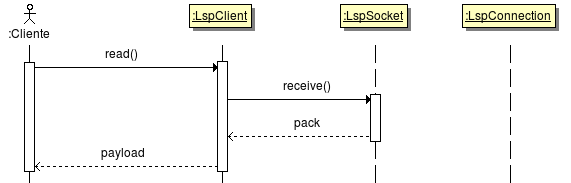
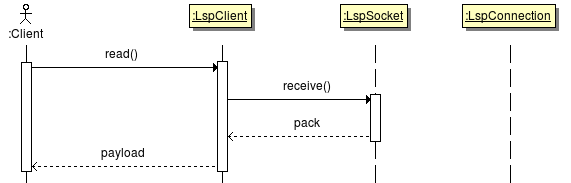
Correção nos diag. sequência

Changed region(s): [[0.0298, 0.2459, 0.387, 1.0], [0.0298, 0.0273, 0.0595, 0.1366], [0.0595, 0.1639, 0.0893, 0.2186]]

diff --git a/uml/index_76.html b/uml/index_76.html
@@ -20,9 +20,8 @@
 <tr bgcolor=#f0f0f0><td><a href="index.html#refattribute129282" target = "projectFrame"><b>LEN_HEADER</b></a></td><td>attribute</td><td></td></tr>
 <tr bgcolor=#f0f0f0><td><a href="index.html#refattribute129154" target = "projectFrame"><b>LEN_PACKAGE</b></a></td><td>attribute</td><td></td></tr>
 <tr bgcolor=#f0f0f0><td><a href="index.html#refattribute129410" target = "projectFrame"><b>LEN_PAYLOAD</b></a></td><td>attribute</td><td></td></tr>
+<tr bgcolor=#f0f0f0><td><a href="index.html#refclass view128002" target = "projectFrame"><b>Live Sequence Protocol</b></a></td><td>class view</td><td></td></tr>
 <tr bgcolor=#f0f0f0><td><a href="index.html#refattribute131714" target = "projectFrame"><b>lock</b></a></td><td>attribute</td><td></td></tr>
-<tr bgcolor=#f0f0f0><td><a href="index.html#refclass view128002" target = "projectFrame"><b>lsp</b></a></td><td>class view</td><td></td></tr>
-<tr bgcolor=#f0f0f0><td><a href="index.html#refuse case view134530" target = "projectFrame"><b>LSP</b></a></td><td>use case view</td><td></td></tr>
 <tr bgcolor=#f0f0f0><td><a href="index.html#refpackage128002" target = "projectFrame"><b>lsp</b></a></td><td>package</td><td></td></tr>
 <tr bgcolor=#f0f0f0><td><a href="class129026.html#refclass129026" target = "projectFrame"><b>LspClient</b></a></td><td>class</td><td></td></tr>
 <tr bgcolor=#f0f0f0><td><a href="index.html#refoperation129794" target = "projectFrame"><b>LspClient</b></a></td><td>operation</td><td></td></tr>
@@ -38,12 +37,12 @@
 <tr bgcolor=#f0f0f0><td><a href="class128514.html#refclass128514" target = "projectFrame"><b>LspSocket</b></a></td><td>class</td><td>Serviço de entrada e saída de pacotes. Classe abstrata.<br /><br />@author Wagner Macedo</td></tr>
 <tr bgcolor=#f0f0f0><td><a href="index.html#refrelation128386" target = "projectFrame"><b>lspSocket</b></a></td><td>relation</td><td></td></tr>
 <tr bgcolor=#f0f0f0><td><a href="index.html#refrelation130690" target = "projectFrame"><b>lspSocket</b></a></td><td>relation</td><td> Socket LSP <br /></td></tr>
-<tr bgcolor=#f0f0f0><td><a href="index.html#refoperation130818" target = "projectFrame"><b>LspSocket</b></a></td><td>operation</td><td>Inicia um LspSocket<br /><br />@param port Porta onde o socket estará vinculado<br />@throws SocketException</td></tr>
 <tr bgcolor=#f0f0f0><td><a href="index.html#refoperation130690" target = "projectFrame"><b>LspSocket</b></a></td><td>operation</td><td>Inicia um LspSocket<br /><br />@param port Porta onde o socket estará vinculado<br />@param queueSize Tamanho inicial das filas de entrada e saída<br />@throws SocketException</td></tr>
+<tr bgcolor=#f0f0f0><td><a href="index.html#refoperation130818" target = "projectFrame"><b>LspSocket</b></a></td><td>operation</td><td>Inicia um LspSocket<br /><br />@param port Porta onde o socket estará vinculado<br />@throws SocketException</td></tr>
 <tr bgcolor=#f0f0f0><td><a href="class129282.html#refclass129282" target = "projectFrame"><b>LspSocketImpl</b></a></td><td>class</td><td></td></tr>
 <tr bgcolor=#f0f0f0><td><a href="class130434.html#refclass130434" target = "projectFrame"><b>LspSocketImpl</b></a></td><td>class</td><td></td></tr>
-<tr bgcolor=#f0f0f0><td><a href="index.html#refoperation134146" target = "projectFrame"><b>LspSocketImpl</b></a></td><td>operation</td><td></td></tr>
 <tr bgcolor=#f0f0f0><td><a href="index.html#refoperation138882" target = "projectFrame"><b>LspSocketImpl</b></a></td><td>operation</td><td></td></tr>
+<tr bgcolor=#f0f0f0><td><a href="index.html#refoperation134146" target = "projectFrame"><b>LspSocketImpl</b></a></td><td>operation</td><td></td></tr>
 </table>
 </body>
 </html>

diff --git a/uml/navig.html b/uml/navig.html
@@ -12,6 +12,6 @@
 <p><a href="index.html" target = "projectFrame"><b> -Top- </b></a><a href="classes.html" target = "projectFrame"><b> -Classes- </b></a><a href="public_operations.html" target = "projectFrame"><b> -Public Operations- </b></a><a href="public_properties.html" target = "projectFrame"><b> -Public properties- </b></a><a href="packages.html" target = "projectFrame"><b> -Packages- </b></a><a href="classdiagrams.html" target = "projectFrame"><b> -Class Diagrams- </b></a><a href="sequencediagrams.html" target = "projectFrame"><b> -Sequence Diagrams- </b></a></p>
 <p>
 </p>
-<p><a href="index_65.html" target = "projectFrame"><b> A </b></a><a href="index_66.html" target = "projectFrame"><b> B </b></a><a href="index_67.html" target = "projectFrame"><b> C </b></a><a href="index_68.html" target = "projectFrame"><b> D </b></a><a href="index_69.html" target = "projectFrame"><b> E </b></a><a href="index_71.html" target = "projectFrame"><b> G </b></a><a href="index_72.html" target = "projectFrame"><b> H </b></a><a href="index_73.html" target = "projectFrame"><b> I </b></a><a href="index_76.html" target = "projectFrame"><b> L </b></a><a href="index_77.html" target = "projectFrame"><b> M </b></a><a href="index_78.html" target = "projectFrame"><b> N </b></a><a href="index_79.html" target = "projectFrame"><b> O </b></a><a href="index_80.html" target = "projectFrame"><b> P </b></a><a href="index_81.html" target = "projectFrame"><b> Q </b></a><a href="index_82.html" target = "projectFrame"><b> R </b></a><a href="index_83.html" target = "projectFrame"><b> S </b></a><a href="index_84.html" target = "projectFrame"><b> T </b></a><a href="index_85.html" target = "projectFrame"><b> U </b></a><a href="index_87.html" target = "projectFrame"><b> W </b></a></p>
+<p><a href="index_65.html" target = "projectFrame"><b> A </b></a><a href="index_66.html" target = "projectFrame"><b> B </b></a><a href="index_67.html" target = "projectFrame"><b> C </b></a><a href="index_68.html" target = "projectFrame"><b> D </b></a><a href="index_69.html" target = "projectFrame"><b> E </b></a><a href="index_71.html" target = "projectFrame"><b> G </b></a><a href="index_72.html" target = "projectFrame"><b> H </b></a><a href="index_73.html" target = "projectFrame"><b> I </b></a><a href="index_74.html" target = "projectFrame"><b> J </b></a><a href="index_76.html" target = "projectFrame"><b> L </b></a><a href="index_77.html" target = "projectFrame"><b> M </b></a><a href="index_78.html" target = "projectFrame"><b> N </b></a><a href="index_79.html" target = "projectFrame"><b> O </b></a><a href="index_80.html" target = "projectFrame"><b> P </b></a><a href="index_81.html" target = "projectFrame"><b> Q </b></a><a href="index_82.html" target = "projectFrame"><b> R </b></a><a href="index_83.html" target = "projectFrame"><b> S </b></a><a href="index_84.html" target = "projectFrame"><b> T </b></a><a href="index_85.html" target = "projectFrame"><b> U </b></a><a href="index_87.html" target = "projectFrame"><b> W </b></a></p>
 </body>
 </html>

diff --git a/uml/index_67.html b/uml/index_67.html
@@ -21,15 +21,15 @@
 <tr bgcolor=#f0f0f0><td><a href="class129538.html#refclass129538" target = "projectFrame"><b>Callable</b></a></td><td>class</td><td></td></tr>
 <tr bgcolor=#f0f0f0><td><a href="index.html#refoperation130562" target = "projectFrame"><b>checkActive</b></a></td><td>operation</td><td></td></tr>
 <tr bgcolor=#f0f0f0><td><a href="index.html#refoperation138498" target = "projectFrame"><b>checkActive</b></a></td><td>operation</td><td></td></tr>
+<tr bgcolor=#f0f0f0><td><a href="class137090.html#refclass137090" target = "projectFrame"><b>Client</b></a></td><td>class</td><td></td></tr>
 <tr bgcolor=#f0f0f0><td><a href="index.html#refsequence diagram148098" target = "projectFrame"><b>Client closing</b></a></td><td>sequence diagram</td><td></td></tr>
 <tr bgcolor=#f0f0f0><td><a href="index.html#refsequence diagram141314" target = "projectFrame"><b>Client connecting</b></a></td><td>sequence diagram</td><td></td></tr>
 <tr bgcolor=#f0f0f0><td><a href="index.html#refsequence diagram147970" target = "projectFrame"><b>Client receiving</b></a></td><td>sequence diagram</td><td></td></tr>
 <tr bgcolor=#f0f0f0><td><a href="index.html#refsequence diagram147842" target = "projectFrame"><b>Client sending</b></a></td><td>sequence diagram</td><td></td></tr>
-<tr bgcolor=#f0f0f0><td><a href="class137090.html#refclass137090" target = "projectFrame"><b>Cliente</b></a></td><td>class</td><td></td></tr>
 <tr bgcolor=#f0f0f0><td><a href="class130050.html#refclass130050" target = "projectFrame"><b>ClientTriggers</b></a></td><td>class</td><td></td></tr>
 <tr bgcolor=#f0f0f0><td><a href="index.html#refoperation130306" target = "projectFrame"><b>close</b></a></td><td>operation</td><td>Encerra a conexão.</td></tr>
-<tr bgcolor=#f0f0f0><td><a href="index.html#refoperation136834" target = "projectFrame"><b>close</b></a></td><td>operation</td><td></td></tr>
 <tr bgcolor=#f0f0f0><td><a href="index.html#refoperation136962" target = "projectFrame"><b>close</b></a></td><td>operation</td><td></td></tr>
+<tr bgcolor=#f0f0f0><td><a href="index.html#refoperation136834" target = "projectFrame"><b>close</b></a></td><td>operation</td><td></td></tr>
 <tr bgcolor=#f0f0f0><td><a href="index.html#refoperation131074" target = "projectFrame"><b>close</b></a></td><td>operation</td><td></td></tr>
 <tr bgcolor=#f0f0f0><td><a href="index.html#refoperation138370" target = "projectFrame"><b>closeAll</b></a></td><td>operation</td><td>Encerra todas as conexões ativas e a atividade do servidor. Isso inclui o<br />encerramento do processador de entradas.</td></tr>
 <tr bgcolor=#f0f0f0><td><a href="index.html#refoperation138114" target = "projectFrame"><b>closeConn</b></a></td><td>operation</td><td>Encerra uma conexão com o identificador connId.<br /><br />Não é possível chamar read, write ou closeConn para a mesma connId depois<br />de chamar esse método.<br /><br />@throws ClosedConnectionException<br />            se a conexão estiver encerrada.</td></tr>

diff --git a/uml/index_82.html b/uml/index_82.html
@@ -22,10 +22,10 @@
 <tr bgcolor=#f0f0f0><td><a href="index.html#refoperation130434" target = "projectFrame"><b>realClose</b></a></td><td>operation</td><td></td></tr>
 <tr bgcolor=#f0f0f0><td><a href="index.html#refoperation138242" target = "projectFrame"><b>realCloseConn</b></a></td><td>operation</td><td></td></tr>
 <tr bgcolor=#f0f0f0><td><a href="index.html#refoperation132994" target = "projectFrame"><b>receive</b></a></td><td>operation</td><td> Recebe um pacote da fila de entrada </td></tr>
-<tr bgcolor=#f0f0f0><td><a href="index.html#refoperation136450" target = "projectFrame"><b>received</b></a></td><td>operation</td><td>Informa o número de sequência em que uma mensagem DATA foi recebida. Esse<br />método atualiza o último momento de recebimento</td></tr>
 <tr bgcolor=#f0f0f0><td><a href="index.html#refoperation136322" target = "projectFrame"><b>received</b></a></td><td>operation</td><td>Informa que houve uma mensagem recebida por essa conexão. Esse método<br />tem como único propósito a atualização do momento de recebimento.</td></tr>
-<tr bgcolor=#f0f0f0><td><a href="index.html#refoperation136194" target = "projectFrame"><b>receivedSeqNum</b></a></td><td>operation</td><td>Número de sequência da última mensagem DATA recebida por essa conexão.<br />Esse número é gerenciado externamente através do método received(short).<br />Se receber -1, quer dizer que não chegou nenhuma mensagem depois do<br />pedido de conexão.</td></tr>
+<tr bgcolor=#f0f0f0><td><a href="index.html#refoperation136450" target = "projectFrame"><b>received</b></a></td><td>operation</td><td>Informa o número de sequência em que uma mensagem DATA foi recebida. Esse<br />método atualiza o último momento de recebimento</td></tr>
 <tr bgcolor=#f0f0f0><td><a href="index.html#refattribute131458" target = "projectFrame"><b>receivedSeqNum</b></a></td><td>attribute</td><td></td></tr>
+<tr bgcolor=#f0f0f0><td><a href="index.html#refoperation136194" target = "projectFrame"><b>receivedSeqNum</b></a></td><td>operation</td><td>Número de sequência da última mensagem DATA recebida por essa conexão.<br />Esse número é gerenciado externamente através do método received(short).<br />Se receber -1, quer dizer que não chegou nenhuma mensagem depois do<br />pedido de conexão.</td></tr>
 <tr bgcolor=#f0f0f0><td><a href="index.html#refattribute131330" target = "projectFrame"><b>receivedTime</b></a></td><td>attribute</td><td></td></tr>
 <tr bgcolor=#f0f0f0><td><a href="index.html#refoperation128770" target = "projectFrame"><b>resendAck</b></a></td><td>operation</td><td>Se foi recebida alguma mensagem de dados, então envia o ACK dessa<br />mensagem, senão envia envia ACK(seqNum=0)</td></tr>
 <tr bgcolor=#f0f0f0><td><a href="index.html#refoperation128642" target = "projectFrame"><b>resendData</b></a></td><td>operation</td><td></td></tr>

diff --git a/uml/index.html b/uml/index.html
@@ -26,7 +26,7 @@ Documentation</title>
 </ul>
 <div class="sub">
 <a name="refclass view128002"></a>
-<h2 class ="view">1.1 Class View lsp</h2>
+<h2 class ="view">1.1 Class View Live Sequence Protocol</h2>
 <div class="sub">
 <table><tr><td><div class="element">Class <b><a href="class128002.html#refclass128002"><b>ClosedConnectionException</b></a></b></div></td></tr></table>
 <table><tr><td><div class="element">Class <b><a href="class128258.html#refclass128258"><b>ConnectionTriggers</b></a></b></div></td></tr></table>
@@ -57,16 +57,16 @@ Documentation</title>
  <p align="center"><b>Client closing</b></p><p><br /></p><p><br /></p>
 </div>
 <a name="refuse case view134530"></a>
-<h2 class ="view">1.2 Use Case View LSP</h2>
+<h2 class ="view">1.2 Use Case View Use case</h2>
 <div class="sub">
-<table><tr><td><div class="element">Class <b><a href="class137090.html#refclass137090"><b>Cliente</b></a></b></div></td></tr></table>
+<table><tr><td><div class="element">Class <b><a href="class137090.html#refclass137090"><b>Client</b></a></b></div></td></tr></table>
 </div>
 </div>
 <a name="refpackage128130"></a>
-<h1 class ="package">2 Package unknown</h1>
+<h1 class ="package">2 Package java</h1>
 <div class="sub">
 <a name="refclass view128130"></a>
-<h2 class ="view">2.1 Class View unknown</h2>
+<h2 class ="view">2.1 Class View j2se</h2>
 <div class="sub">
 <table><tr><td><div class="element">Class <b><a href="class128130.html#refclass128130"><b>RuntimeException</b></a></b></div></td></tr></table>
 <table><tr><td><div class="element">Class <b><a href="class129538.html#refclass129538"><b>Callable</b></a></b></div></td></tr></table>

diff --git a/uml/index_85.html b/uml/index_85.html
@@ -19,8 +19,7 @@
 <tr bgcolor=#f0f0f0><td align=center><b>Name</b></td><td align=center><b>Kind</b></td><td align=center><b>Description</b></td></tr>
 <tr bgcolor=#f0f0f0><td><a href="index.html#refpackage129" target = "projectFrame"><b>uml</b></a></td><td>package</td><td></td></tr>
 <tr bgcolor=#f0f0f0><td><a href="index.html#refoperation135170" target = "projectFrame"><b>uniqueSockId</b></a></td><td>operation</td><td>Número único gerado a partir de um endereço IP e uma porta<br /><br />Esse método só é usado pelo servidor</td></tr>
-<tr bgcolor=#f0f0f0><td><a href="index.html#refpackage128130" target = "projectFrame"><b>unknown</b></a></td><td>package</td><td></td></tr>
-<tr bgcolor=#f0f0f0><td><a href="index.html#refclass view128130" target = "projectFrame"><b>unknown</b></a></td><td>class view</td><td></td></tr>
+<tr bgcolor=#f0f0f0><td><a href="index.html#refuse case view134530" target = "projectFrame"><b>Use case</b></a></td><td>use case view</td><td></td></tr>
 <tr bgcolor=#f0f0f0><td><a href="index.html#refoperation132866" target = "projectFrame"><b>usedConnection</b></a></td><td>operation</td><td></td></tr>
 <tr bgcolor=#f0f0f0><td><a href="index.html#refoperation132738" target = "projectFrame"><b>usedConnection</b></a></td><td>operation</td><td>Obtém o objeto {@link LspConnection} em uso<br /><br />@param connId Id de conexão para validar/pesquisar<br />@return Uma instância de {@link LspConnection} ou null</td></tr>
 <tr bgcolor=#f0f0f0><td><a href="index.html#refoperation134402" target = "projectFrame"><b>usedConnection</b></a></td><td>operation</td><td></td></tr>

diff --git a/uml/index_74.html b/uml/index_74.html
@@ -4,21 +4,21 @@
 <html xmlns="http://www.w3.org/1999/xhtml">
 
 <head>
-<title>Packages Index</title>
+<title>J</title>
 <link rel="stylesheet" href="style.css" type="text/css" />
 </head>
 
 <body bgcolor="#ffffff">
 
-<div class = "title">Packages Index</div>
+<div class = "title">J</div>
 <p></p>
 
 <!-- ============================================================= -->
 
 <table>
-<tr bgcolor=#f0f0f0><td><a href="index.html#refpackage128130" target = "projectFrame"><b>java</b></a></td><td></td><td></td></tr>
-<tr bgcolor=#f0f0f0><td><a href="index.html#refpackage128002" target = "projectFrame"><b>lsp</b></a></td><td></td><td></td></tr>
-<tr bgcolor=#f0f0f0><td><a href="index.html#refpackage129" target = "projectFrame"><b>uml</b></a></td><td></td><td></td></tr>
+<tr bgcolor=#f0f0f0><td align=center><b>Name</b></td><td align=center><b>Kind</b></td><td align=center><b>Description</b></td></tr>
+<tr bgcolor=#f0f0f0><td><a href="index.html#refclass view128130" target = "projectFrame"><b>j2se</b></a></td><td>class view</td><td></td></tr>
+<tr bgcolor=#f0f0f0><td><a href="index.html#refpackage128130" target = "projectFrame"><b>java</b></a></td><td>package</td><td></td></tr>
 </table>
 </body>
 </html>

diff --git a/uml/classes.html b/uml/classes.html
@@ -17,7 +17,7 @@
 
 <table>
 <tr bgcolor=#f0f0f0><td><a href="class129538.html#refclass129538" target = "projectFrame"><b>Callable</b></a></td><td></td><td></td></tr>
-<tr bgcolor=#f0f0f0><td><a href="class137090.html#refclass137090" target = "projectFrame"><b>Cliente</b></a></td><td>actor</td><td></td></tr>
+<tr bgcolor=#f0f0f0><td><a href="class137090.html#refclass137090" target = "projectFrame"><b>Client</b></a></td><td>actor</td><td></td></tr>
 <tr bgcolor=#f0f0f0><td><a href="class130050.html#refclass130050" target = "projectFrame"><b>ClientTriggers</b></a></td><td></td><td></td></tr>
 <tr bgcolor=#f0f0f0><td><a href="class128002.html#refclass128002" target = "projectFrame"><b>ClosedConnectionException</b></a></td><td></td><td></td></tr>
 <tr bgcolor=#f0f0f0><td><a href="class128258.html#refclass128258" target = "projectFrame"><b>ConnectionTriggers</b></a></td><td>interface</td><td></td></tr>

diff --git a/uml/classes_list.html b/uml/classes_list.html
@@ -18,7 +18,7 @@
 <table border="0" width="100%">
 <tr>
 <td nowrap><a href="class129538.html#refclass129538" target = "projectFrame"><b>Callable</b></a><br />
-<a href="class137090.html#refclass137090" target = "projectFrame"><b>Cliente</b></a><br />
+<a href="class137090.html#refclass137090" target = "projectFrame"><b>Client</b></a><br />
 <a href="class130050.html#refclass130050" target = "projectFrame"><b>ClientTriggers</b></a><br />
 <a href="class128002.html#refclass128002" target = "projectFrame"><b>ClosedConnectionException</b></a><br />
 <a href="class128258.html#refclass128258" target = "projectFrame"><b>ConnectionTriggers</b></a><br />

diff --git a/uml/class137090.html b/uml/class137090.html
@@ -4,19 +4,19 @@
 <html xmlns="http://www.w3.org/1999/xhtml">
 
 <head>
-<title>Class Cliente</title>
+<title>Class Client</title>
 <link rel="stylesheet" href="style.css" type="text/css" />
 </head>
 
 <body bgcolor="#ffffff">
 
-<div class = "title">Class Cliente</div>
+<div class = "title">Class Client</div>
 <p></p>
 
 <!-- ============================================================= -->
 
 <a name="refclass137090"></a>
 <p>Declaration :</p><ul>
-<li>Java : package class Cliente </li></ul><p>Stereotype: actor</p>
+<li>Java : package class Client </li></ul><p>Stereotype: actor</p>
 </body>
 </html>
